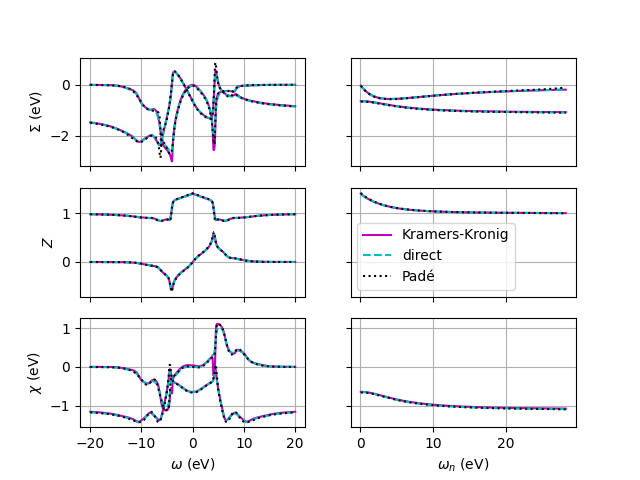
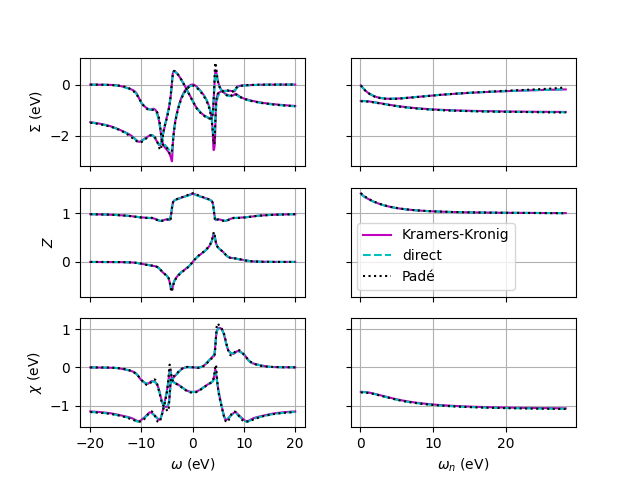
Update ebmb

diff --git a/ebmb/_modules/ebmb.html b/ebmb/_modules/ebmb.html
@@ -403,7 +403,7 @@
     <span class="k">if</span> <span class="n">wlog</span> <span class="ow">is</span> <span class="kc">None</span><span class="p">:</span>
         <span class="n">wlog</span> <span class="o">=</span> <span class="n">w0</span> <span class="o">/</span> <span class="n">np</span><span class="o">.</span><span class="n">sqrt</span><span class="p">(</span><span class="mi">2</span><span class="p">)</span>
 
-    <span class="n">points</span> <span class="o">=</span> <span class="nb">int</span><span class="p">(</span><span class="nb">round</span><span class="p">(</span><span class="mi">2</span> <span class="o">*</span> <span class="n">wlog</span> <span class="o">/</span> <span class="n">dw</span><span class="p">))</span> <span class="o">+</span> <span class="mi">1</span>
+    <span class="n">points</span> <span class="o">=</span> <span class="nb">int</span><span class="p">(</span><span class="nb">round</span><span class="p">(</span><span class="mi">2</span> <span class="o">*</span> <span class="n">wlog</span> <span class="o">/</span> <span class="n">dw</span><span class="p">))</span>
 
     <span class="n">w</span><span class="p">,</span> <span class="n">dw</span> <span class="o">=</span> <span class="n">np</span><span class="o">.</span><span class="n">linspace</span><span class="p">(</span><span class="mi">2</span> <span class="o">*</span> <span class="n">wlog</span><span class="p">,</span> <span class="mi">0</span><span class="p">,</span> <span class="n">points</span><span class="p">,</span> <span class="n">endpoint</span><span class="o">=</span><span class="kc">False</span><span class="p">,</span> <span class="n">retstep</span><span class="o">=</span><span class="kc">True</span><span class="p">)</span>
     <span class="n">w</span> <span class="o">=</span> <span class="n">w</span><span class="p">[::</span><span class="o">-</span><span class="mi">1</span><span class="p">]</span>